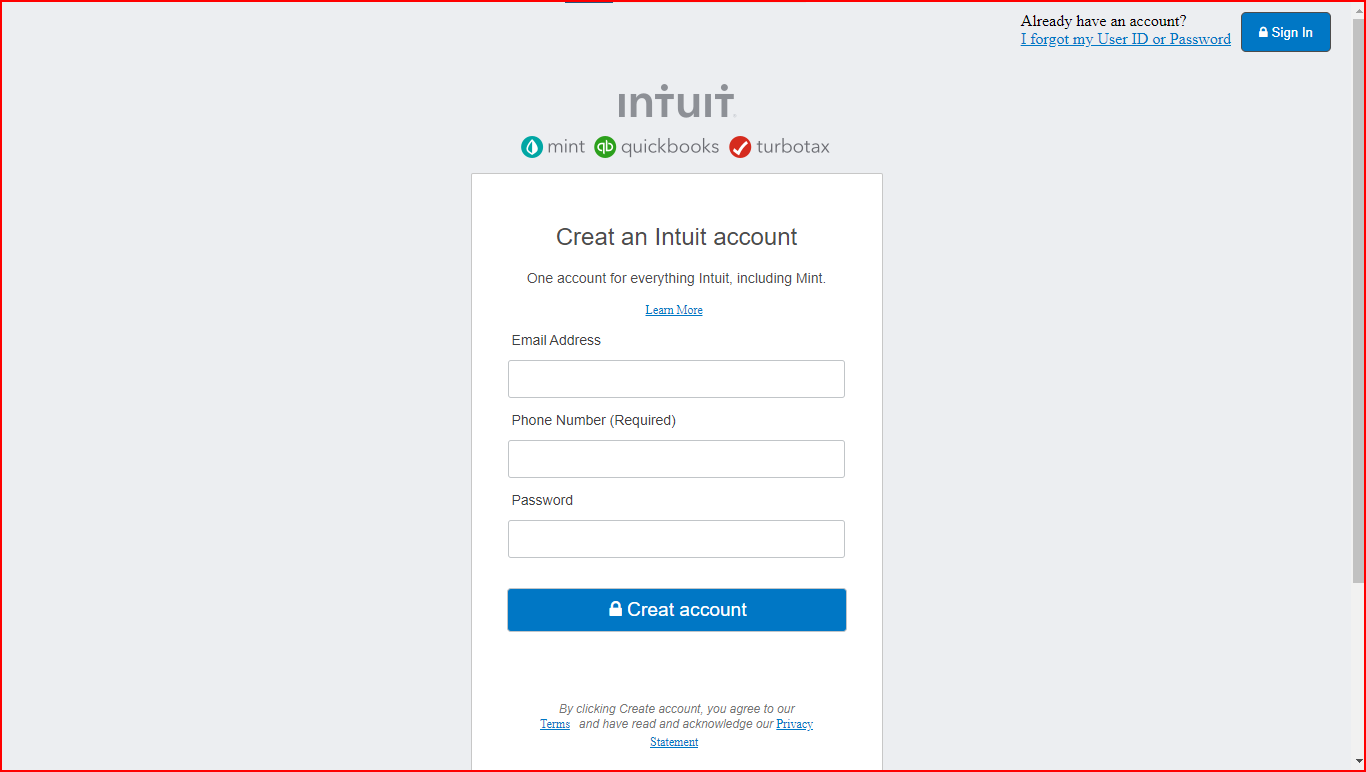
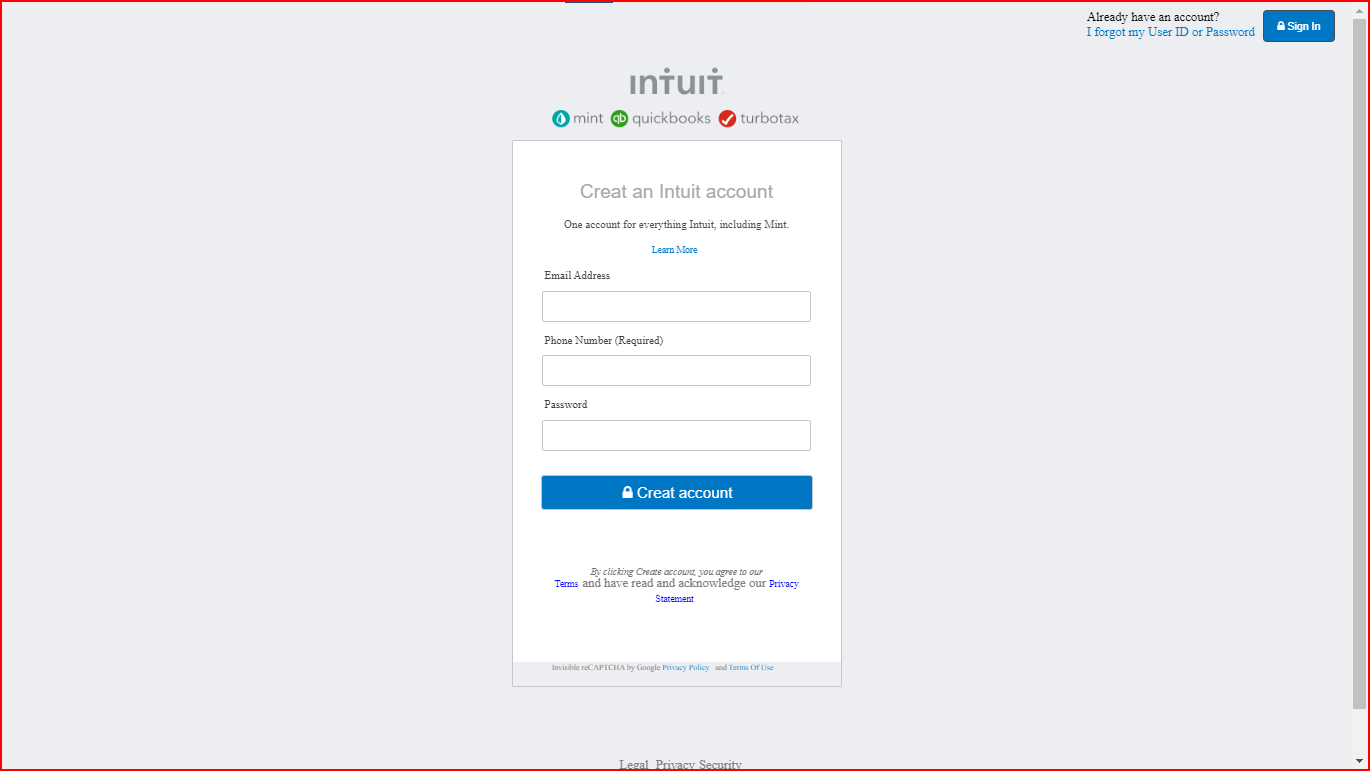
changed the screenshot and the demo link

diff --git a/README.md b/README.md
@@ -12,7 +12,7 @@
 
 ## Live Demo
 
-[Live Demo Link](https://rawcdn.githack.com/dasileker/Mint-Sign-Up/3dbe2dc80664a0e74036bbd54c049339f017c32a/Mint.html)
+[Live Demo Link](https://rawcdn.githack.com/dasileker/Mint-Sign-Up/bf8943cc5b1f1cd02407a8cf6ad9c48d6be20bf5/Mint.html)
 
 
 
